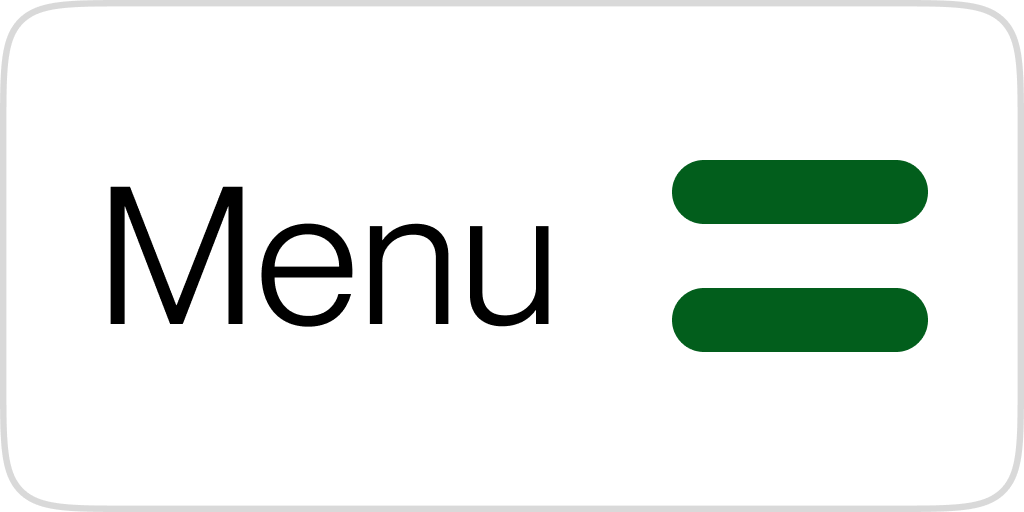
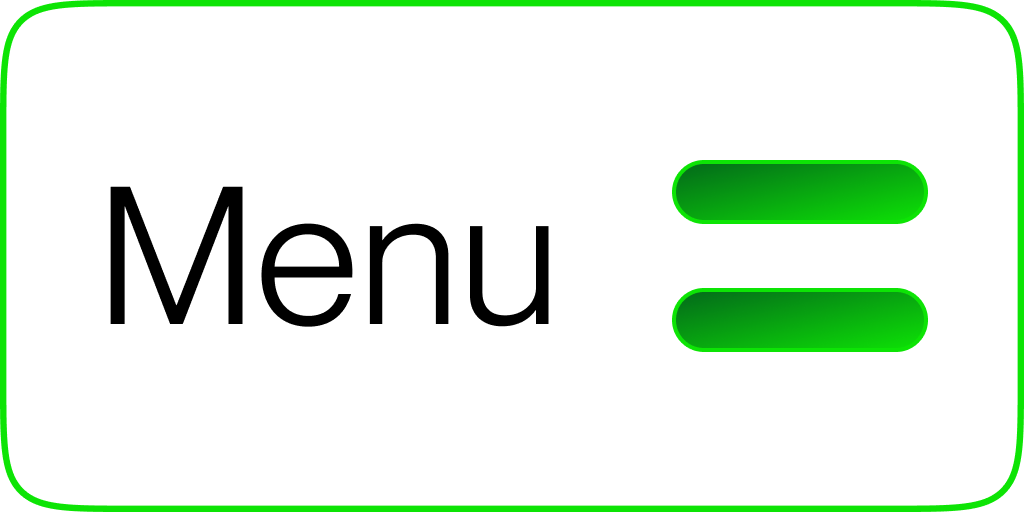
menu-close

diff --git a/src/components/Navbar.jsx b/src/components/Navbar.jsx
@@ -18,13 +18,13 @@ export const Navbar = () => {
 
   return (
     <>
-    <navbar classname='nav-section xl:w-[40%]  md:w-[80%]  sm:w-[88%] ss:w-[100%]  top-0 w-full z-[998] '>
-<div className='w-full flex py-4 justify-between items-center navbar  '>
+  <navbar classname='nav-section xl:w-[40%]  md:w-[80%]  sm:w-[88%] ss:w-[100%]   z-[999]  top-0  '>
+        <div className='w-full flex py-4 justify-between items-center navbar  bg-transparent '>
     
 {/* logo */}
-<div className='flex flex-row z-[999]  '>
+<div className='flex flex-row logo  z-[99] '>
 <img src={icon} alt="" className='w-[64px] h-[64px]'/>
-<h4 className='text-[28px] green mt-4 neue-bold '>
+<h4 className='text-[28px] green mt-4 neue-bold font-bold '>
   TitoGems
 </h4>
 </div>
@@ -35,7 +35,7 @@ export const Navbar = () => {
 <ul className='sm:flex hidden list-none justify-between items-center flex-1'> 
    {nav.map((list, index) => (
             <li key= {index} className={`font-poppins font-normal cursor-pointer text-[20px]
-            black  ${index === nav.length - 1 ? 'mr-0' : 'mr-10'} `} onClick={() => setActive(list.text)} >
+            green  ${index === nav.length - 1 ? 'mr-0' : 'mr-10'} `} onClick={() => setActive(list.text)} >
             <Link to={list.path}>{list.text}</Link>
             </li>
           )
@@ -52,16 +52,16 @@ export const Navbar = () => {
 
  {/* toggle */}
 
- <div className='sm:hidden flex flex-1 justify-end '>
+ <div className='sm:hidden flex flex-1  justify-end '>
   
 <img src={navList ? close : menu} alt=""  className='w-[112px] h-[56px]  cursor-pointer  z-[99]'
 onClick={() => setNavList((prev) => !prev)}/>
 
-<div className={`${navList ? 'flex' : 'hidden'} p-2 bg-white
-absolute  right-0   w-full h-screen top-0 sidebar`}>
+<div className={`${navList ? 'flex' : 'hidden'} p-2 bg-white 
+  right-0   w-full h-screen top-0 sidebar absolute`}>
 
 
-<ul className='  list-none justify-end items-center flex-1 mt-20 '>
+<ul className='  list-none justify-end items-center flex-1 mt-20  '>
  {nav.map((list, index) => (
   <li key={list.path} className={` font-medium cursor-pointer border p-8 mt-5  text-[32px]
   ${index === nav.length - 1 ? 'mr-0' : 'mb-4'}`} 

diff --git a/src/index.css b/src/index.css
@@ -23,11 +23,14 @@
 *{
   scroll-behavior: smooth;
 }
+body{
+  padding: 0;
+  margin: 0;
+}
 
 body{
   background: none;
-  padding: 0;
-  margin: 0;
+ 
  
 }
 
@@ -58,18 +61,11 @@ body{
 }
 
 
-
-
-  .nav-section {
-    position: absolute;
-    top: 0;
-    width: 100%;
-    margin-bottom: 24px;
-  
-  }
+ 
 
   .green{
     color: #025e1c;
+    
   }
 
   .outlinee{
@@ -100,12 +96,14 @@ body{
     background-image: url(assets//lady.png);
     background-size: cover;
     background-repeat: no-repeat; 
+    
     height: 600px;
     top: 0;
     margin-top: 0;
     background-position: fixed;
-    z-index: 999;
+   
   }
+
 
   
 
@@ -132,7 +130,7 @@ background: linear-gradient(163.33deg, #02013A 10.22%, #0603A0 88.48%);
 margin: 16px auto;
 height: 64px;
 width: 256px;
-background: linear-gradient(33.33deg, #025e1c 19.83%, #D9D9D9 161.18%);
+background: linear-gradient(33.33deg, #025e1c 19.83%, #0de405 161.18%);
 /* box-shadow: 0px 4px 4px rgba(0, 0, 0, 0.25); */
 border-radius: 10px;
 
@@ -158,6 +156,12 @@ border-radius: 10px;
 
 border: 1px solid #D9D9D9;
 text-shadow: 0px 4px 4px rgba(0, 0, 0, 0.25);
+
+  }
+  .shadoww{
+
+
+text-shadow: 0px 2px 2px rgba(8, 8, 8, 0.25);
 
   }
 
@@ -207,7 +211,7 @@ text-shadow: 0px 4px 4px rgba(0, 0, 0, 0.25);
   }
 
   .bg-footer{
-    background: linear-gradient(33.33deg, #02922b 19.83%, #056801 161.18%);
+    background: linear-gradient(33.33deg, #025e1c 19.83%, #0de405 161.18%);
   }
 
 /* loader */
@@ -282,18 +286,9 @@ border-radius: 12px;
 
 
 }
-body{
-  background: transparent;
-}
 
-.nav-section {
-  position: absolute;
-  top: 0;
-  width: 100%;
-  margin-bottom: 24px;
-  
 
-}
+
 
 .bg-service{
   background-image: url(assets/service.png);
@@ -334,7 +329,7 @@ border-radius: 100px;
 
 .scroll-to-top{
   position: fixed;
-  right: 6px;
+  right: 4px;
    display: flex;
    bottom: 20px;
   cursor: pointer;
@@ -357,4 +352,16 @@ border-radius: 100px;
 
 .bg-transparent{
   background: none;
+}
+
+
+
+
+.nav-section {
+  position: absolute;
+  top: 0px;
+  width: 100%;
+  margin-bottom: 24px;
+  
+
 }

diff --git a/src/components/home/Choice.jsx b/src/components/home/Choice.jsx
@@ -9,7 +9,7 @@ const Choice = () => {
 
      <div className='flex flex-col mb-10'>
         {/* card */}
-        <div className=' justify-content-center w-[400px] mt-4 h-[320px] rounded-[12px] bg-white'>
+        <div className=' justify-content-center w-[390px] mt-4 h-[320px] rounded-[12px] bg-white'>
           <div className='mx-auto p-4 text-black neue-bold h-[60px] '>
            
           <h1 className=' text-[20px] track font-medium'>Determination for Change</h1>
@@ -22,12 +22,12 @@ const Choice = () => {
 
       
         {/* card */}
-        <div className=' justify-content-center w-[400px] mt-5 h-[300px] rounded-[12px] bg-white'>
+        <div className=' justify-content-center w-[390px] mt-5  rounded-[12px] bg-white'>
           <div className='mx-auto p-4 text-black neue-bold h-[60px] '>
            
           <h1 className=' text-[20px] track font-medium'>Postive Minded</h1>
         </div>
-        <div className='h-[320px] object-contain'>
+        <div className=' object-contain'>
           <img src={positive} alt="" className='round'/>
         </div>
         </div>
@@ -35,7 +35,7 @@ const Choice = () => {
 
       
         {/* card */}
-        <div className=' justify-content-center w-[400px] mt-4 h-[320px] rounded-[12px] bg-white'>
+        <div className=' justify-content-center w-[390px] mt-5 h-[320px] rounded-[12px] bg-white'>
           <div className='mx-auto p-4 text-black neue-bold h-[60px] '>
            
           <h1 className=' text-[20px] track font-medium'>Passion for success</h1>

diff --git a/src/components/home/Hero.jsx b/src/components/home/Hero.jsx
@@ -1,13 +1,13 @@
 import React from 'react'
 import { Link } from 'react-router-dom'
 import { arrow } from '../../assets'
-
+import styles from '../../style'
 
 const Hero = () => {
   return (
-    <section className=' '> 
-    <h1 className='neue-bold text-[36px] text-white text-center justify-content-center mx-auto p-8 track'>
-     <div className=' mt-20 shadow '>DISCOVER YOUR POTENTIAL,</div>
+    <section className={`${styles.paddingY} `}> 
+    <h1 className='neue-bold text-[36px] text-white text-center justify-content-center mx-auto p-8 track  '>
+     <div className=' mt-20  '>DISCOVER YOUR POTENTIAL,</div>
      <div className='shadow mt-4'>SHAPE YOUR</div>
      <div className='shadow mt-4'>FUTURE</div>
     </h1>

diff --git a/src/components/home/Welcome.jsx b/src/components/home/Welcome.jsx
@@ -7,7 +7,7 @@ const Welcome = () => {
   return (
     <section className={`${layout.section} mt-2`}>
       <div className={`${layout.sectionInfo}`}> 
-        <h2 className='text-[40px] text-white neue-bold'>
+        <h2 className='text-[40px] text-white neue-bold shadoww'>
         Guidance for Every Journey, Support for Every Step
         </h2>
         <p className='neue-white w-[370px] py-4'>

diff --git a/src/components/home/Home.jsx b/src/components/home/Home.jsx
@@ -13,7 +13,7 @@ import { Link } from 'react-router-dom'
 
 function Home() {
   return (
-    <div className=' w-full overflow-hidden'>
+    <div className=' w-full  overflow-hidden '>
       
       <div className={`${styles.flexStart} bg-hero`}>
     <div className={`${styles.boxWidth}`}>

diff --git a/src/components/pages/Pages.jsx b/src/components/pages/Pages.jsx
@@ -25,7 +25,7 @@ const pages = () => {
     <>
     <Router>
      
-    <div className={` ${styles.flexCenter} w-full overflow-hidden `}>
+    <div className={` ${styles.flexCenter} w-full overflow-hidden  `}>
       <div className={`${styles.boxWidth}`}>
         <Navbar />
       </div>
